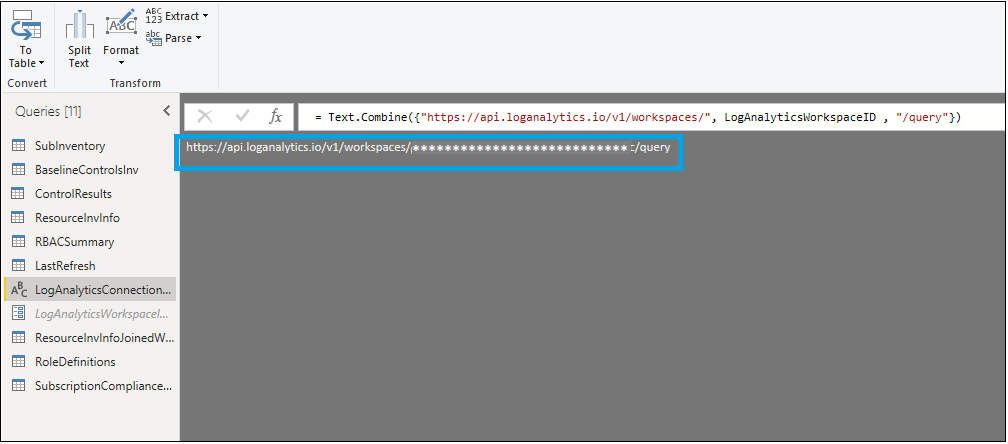
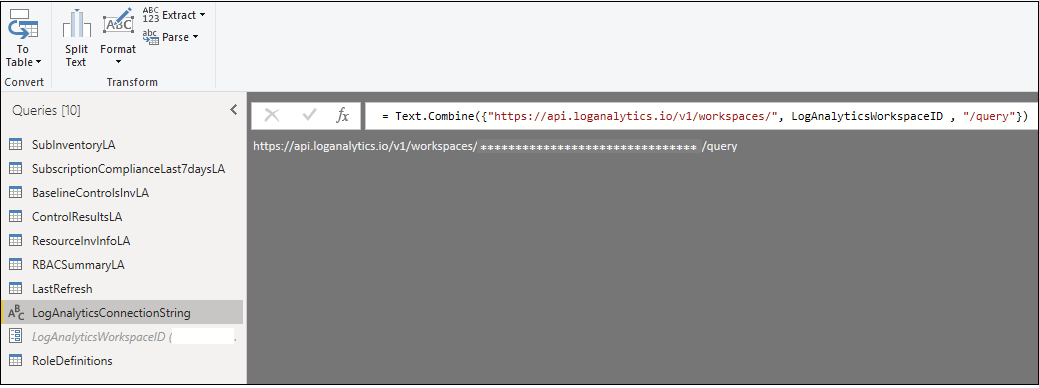
image updates

Changed region(s): [[0.0, 0.0, 1.0, 1.0]]

diff --git a/13-Tenant Security Solution Setup/Readme.md b/13-Tenant Security Solution Setup/Readme.md
@@ -267,17 +267,17 @@ Once you have successfully logged in, you will see the Log Analytics data in the
 
 ![Compliance summary](../Images/13_TSS_PBIDashboardComplianceSummary.png)
 
-The report contains 3 tabs. There is an overall/summary view of compliance, a detailed view which can be used to see control 'pass/fail' details for individual subscriptions and inventory view which will give the visibility over all resources and RBAC in your tenant. An example of the detailed view and inventory view is shown below:
+The report contains 3 tabs. There is an overall/summary view of compliance, a detailed view which can be used to see control 'pass/fail' details for individual subscriptions and inventory view which shows distribution of resource types and RBAC role memberships across all Azure subscriptions in the organization. An example of the detailed view and inventory view is shown below:
 
-Detailed view:
+###### Detailed view:
 
 ![Compliance summary](../Images/13_TSS_PBIDashboardComplianceDetails.png) 
 
-Inventory view:
+###### Inventory view:
 
 ![Compliance summary](../Images/13_TSS_PBIDashboardInventoryOverview.png)
 
-> TBD: Need to add steps to control access to the detailed view by business group. (Dashboard RBAC.) 
+> Note: You can consider controlling access to the detailed view by business group.
 
 #### Step 4: Publish the PowerBI report to your enterprise PowerBI workspace
 
@@ -295,7 +295,7 @@ Inventory view:
 
 ![Update LA Connection String](../Images/13_TSS_OrgPolicy_PBI_OrgMetadata_LA_4.png)
 
-[a4] Repeat this operation for SubscriptionInv, BaselineControlsInv, ControlResults, ResourceInvInfo, RBAC summary, and SubscriptionComplianceLast7days data tables.
+[a4] Repeat this operation for SubscriptionInvLA, SubscriptionComplianceLast7daysLA, BaselineControlsInvLA, ControlResultsLA, ResourceInvInfoLA, and RBACSummaryLA data tables.
 
 [a5] Click on "Close and Apply".
 
